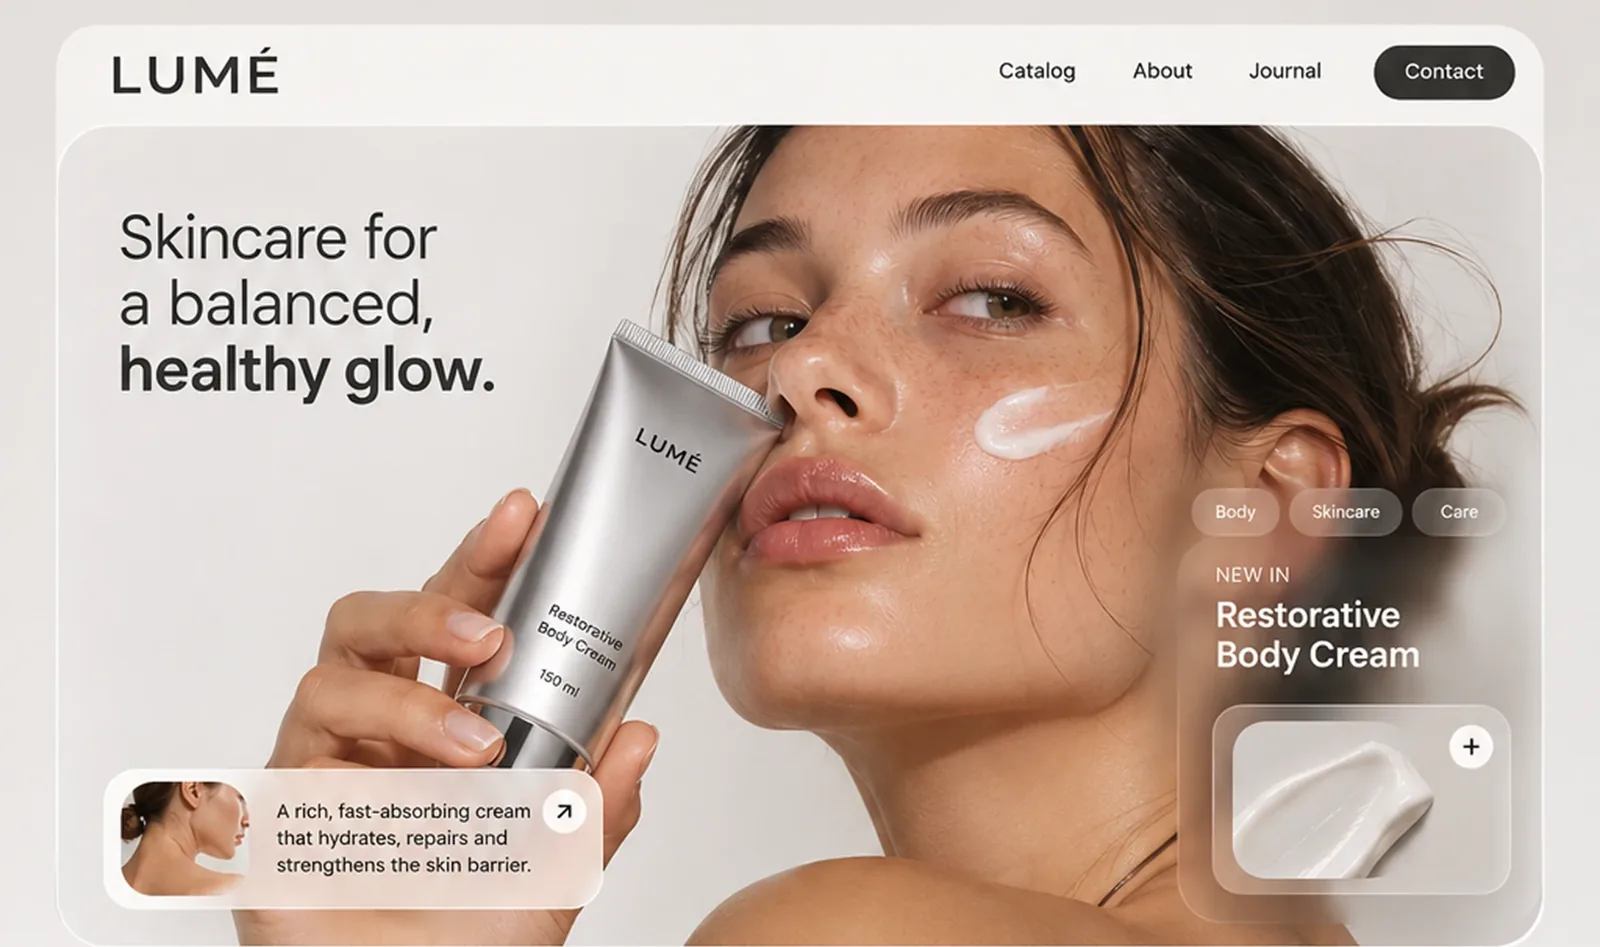
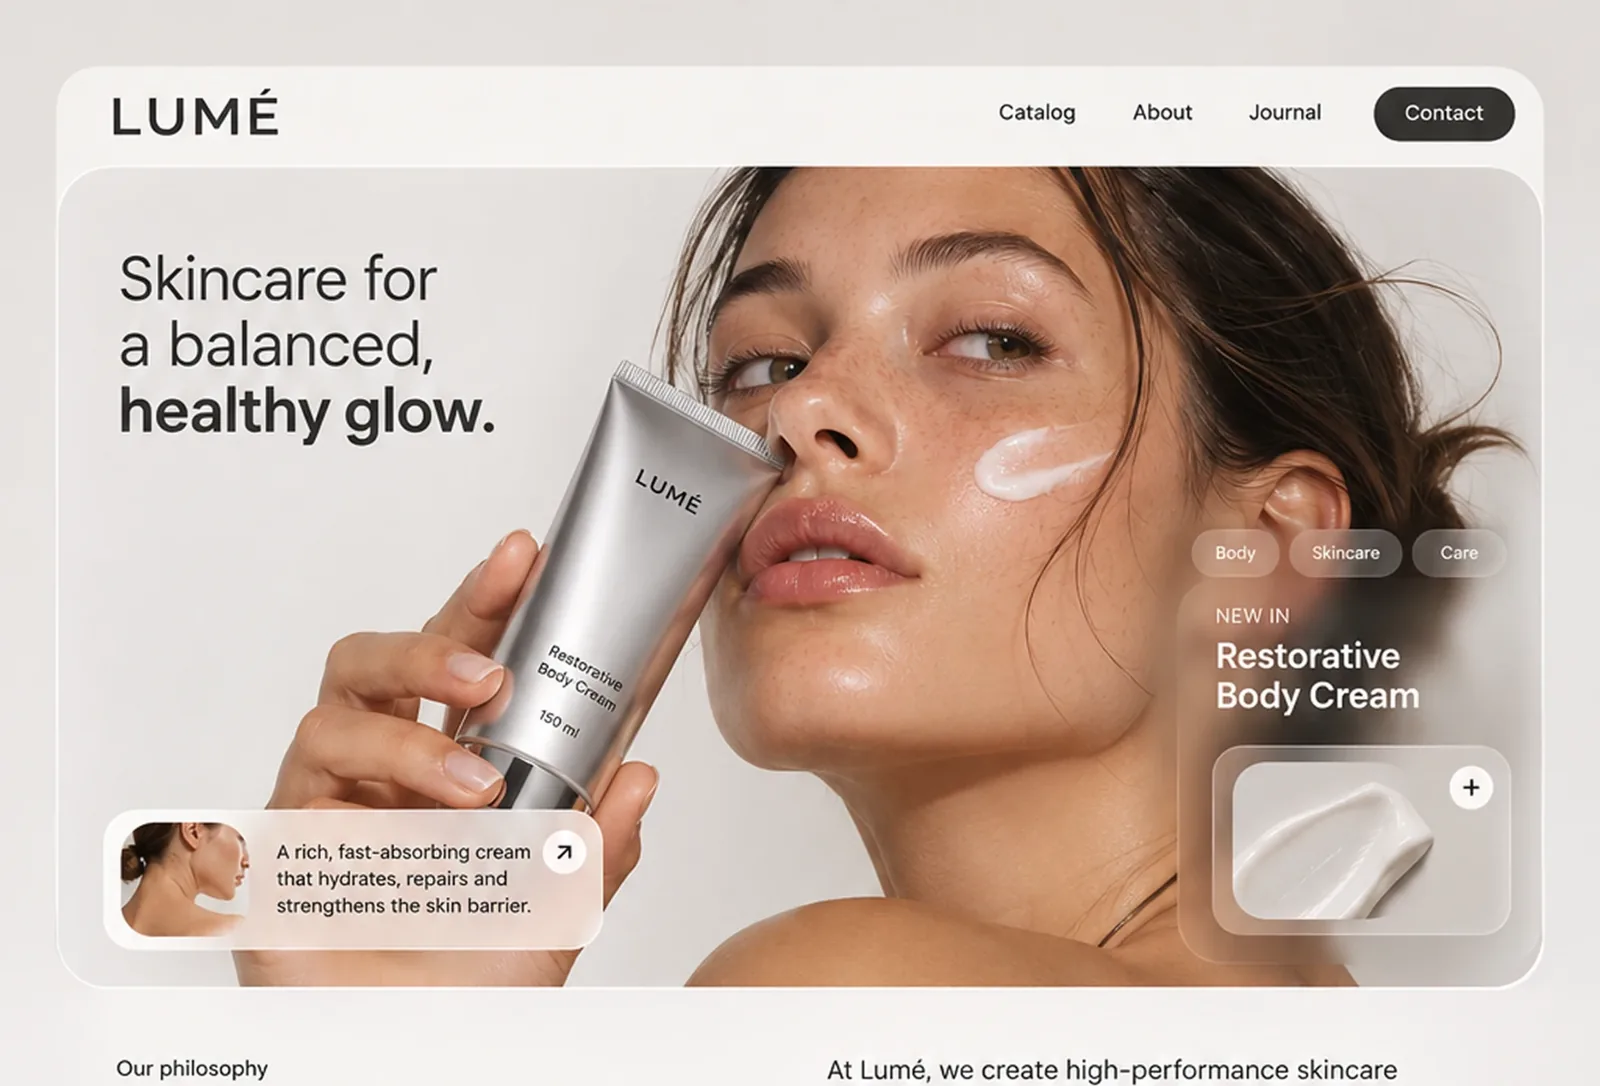
Show the carousel websites uncropped
Cards now use the screenshots' own ratio (1.473) and the images are exported
whole instead of cropped to 1.69.

Claude-Session: https://claude.ai/code/session_01CMTTd7ievjugDKPQWUTXpE

diff --git a/prototipo/index.html b/prototipo/index.html
@@ -183,17 +183,17 @@
     </div>
   </div>
   <div class="cc" role="region" aria-roledescription="carrusel" aria-label="Webs diseñadas por Noumi" tabindex="0"
-       data-aspect="1.69" data-size="0.51" data-curvature="0.72" data-distance="4" data-tilt="0" data-gap="16" data-radius="10"
+       data-aspect="1.473" data-size="0.51" data-curvature="0.72" data-distance="4" data-tilt="0" data-gap="16" data-radius="10"
        data-reflection="0" data-dim="0.35" data-autoplay="drift" data-speed="0.08" data-interval="4" data-inertia="0.5"
        data-snap data-pause-on-hover data-draggable data-wheel data-captions data-controls>
     <div class="cc-stage">
       <div class="cc-track">
-        <figure class="cc-item" data-title="Célère" data-sub="Bolsos y accesorios"><img src="img/webs/celere.webp" width="1600" height="947" decoding="async" alt="Web de Célère, bolsos y accesorios."></figure>
-        <figure class="cc-item" data-title="Terra Consulting" data-sub="Consultoría inmobiliaria"><img src="img/webs/terra.webp" width="1600" height="947" decoding="async" alt="Web de Terra Consulting, consultoría inmobiliaria."></figure>
-        <figure class="cc-item" data-title="Lumé" data-sub="Cosmética y cuidado de la piel"><img src="img/webs/lume.webp" width="1600" height="947" decoding="async" alt="Web de Lumé, cosmética y cuidado de la piel."></figure>
-        <figure class="cc-item" data-title="SoloTribe" data-sub="Viajes en grupo"><img src="img/webs/solotribe.webp" width="1600" height="947" decoding="async" alt="Web de SoloTribe, viajes en grupo."></figure>
-        <figure class="cc-item" data-title="Forma" data-sub="Mobiliario y decoración"><img src="img/webs/forma-furniture.webp" width="1600" height="947" decoding="async" alt="Web de Forma, mobiliario y decoración."></figure>
-        <figure class="cc-item" data-title="StayVacations" data-sub="Alquiler vacacional"><img src="img/webs/stayvacations.webp" width="1600" height="947" decoding="async" alt="Web de StayVacations, alquiler vacacional."></figure>
+        <figure class="cc-item" data-title="Célère" data-sub="Bolsos y accesorios"><img src="img/webs/celere.webp" width="1600" height="1086" decoding="async" alt="Web de Célère, bolsos y accesorios."></figure>
+        <figure class="cc-item" data-title="Terra Consulting" data-sub="Consultoría inmobiliaria"><img src="img/webs/terra.webp" width="1600" height="1086" decoding="async" alt="Web de Terra Consulting, consultoría inmobiliaria."></figure>
+        <figure class="cc-item" data-title="Lumé" data-sub="Cosmética y cuidado de la piel"><img src="img/webs/lume.webp" width="1600" height="1086" decoding="async" alt="Web de Lumé, cosmética y cuidado de la piel."></figure>
+        <figure class="cc-item" data-title="SoloTribe" data-sub="Viajes en grupo"><img src="img/webs/solotribe.webp" width="1600" height="1086" decoding="async" alt="Web de SoloTribe, viajes en grupo."></figure>
+        <figure class="cc-item" data-title="Forma" data-sub="Mobiliario y decoración"><img src="img/webs/forma-furniture.webp" width="1600" height="1086" decoding="async" alt="Web de Forma, mobiliario y decoración."></figure>
+        <figure class="cc-item" data-title="StayVacations" data-sub="Alquiler vacacional"><img src="img/webs/stayvacations.webp" width="1600" height="1086" decoding="async" alt="Web de StayVacations, alquiler vacacional."></figure>
       </div>
     </div>
     <div class="cc-controls">
